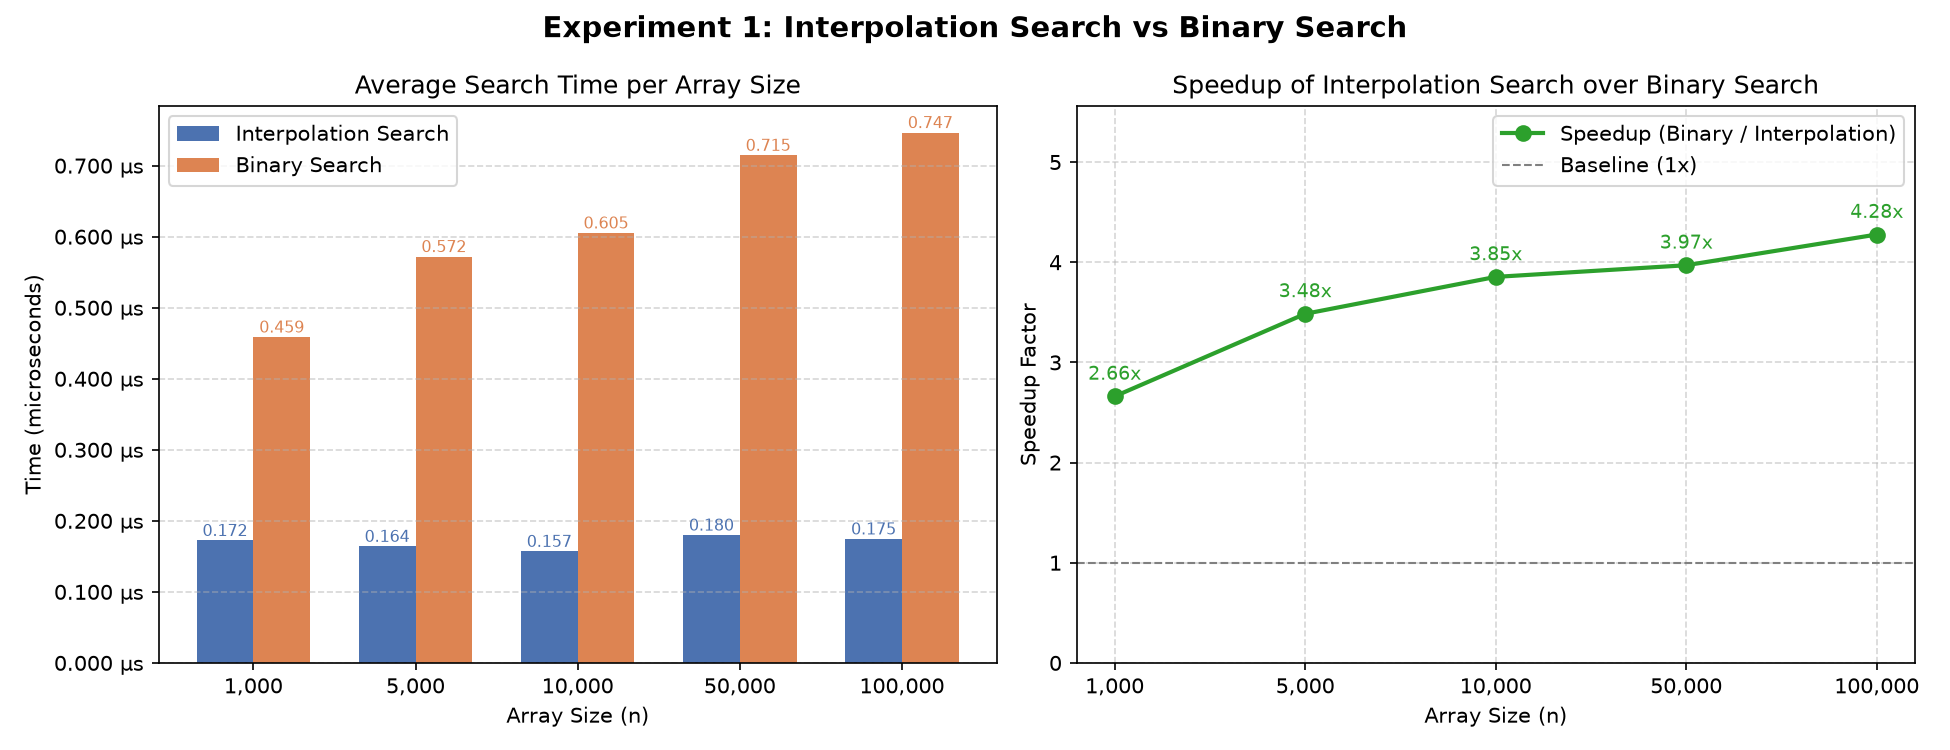
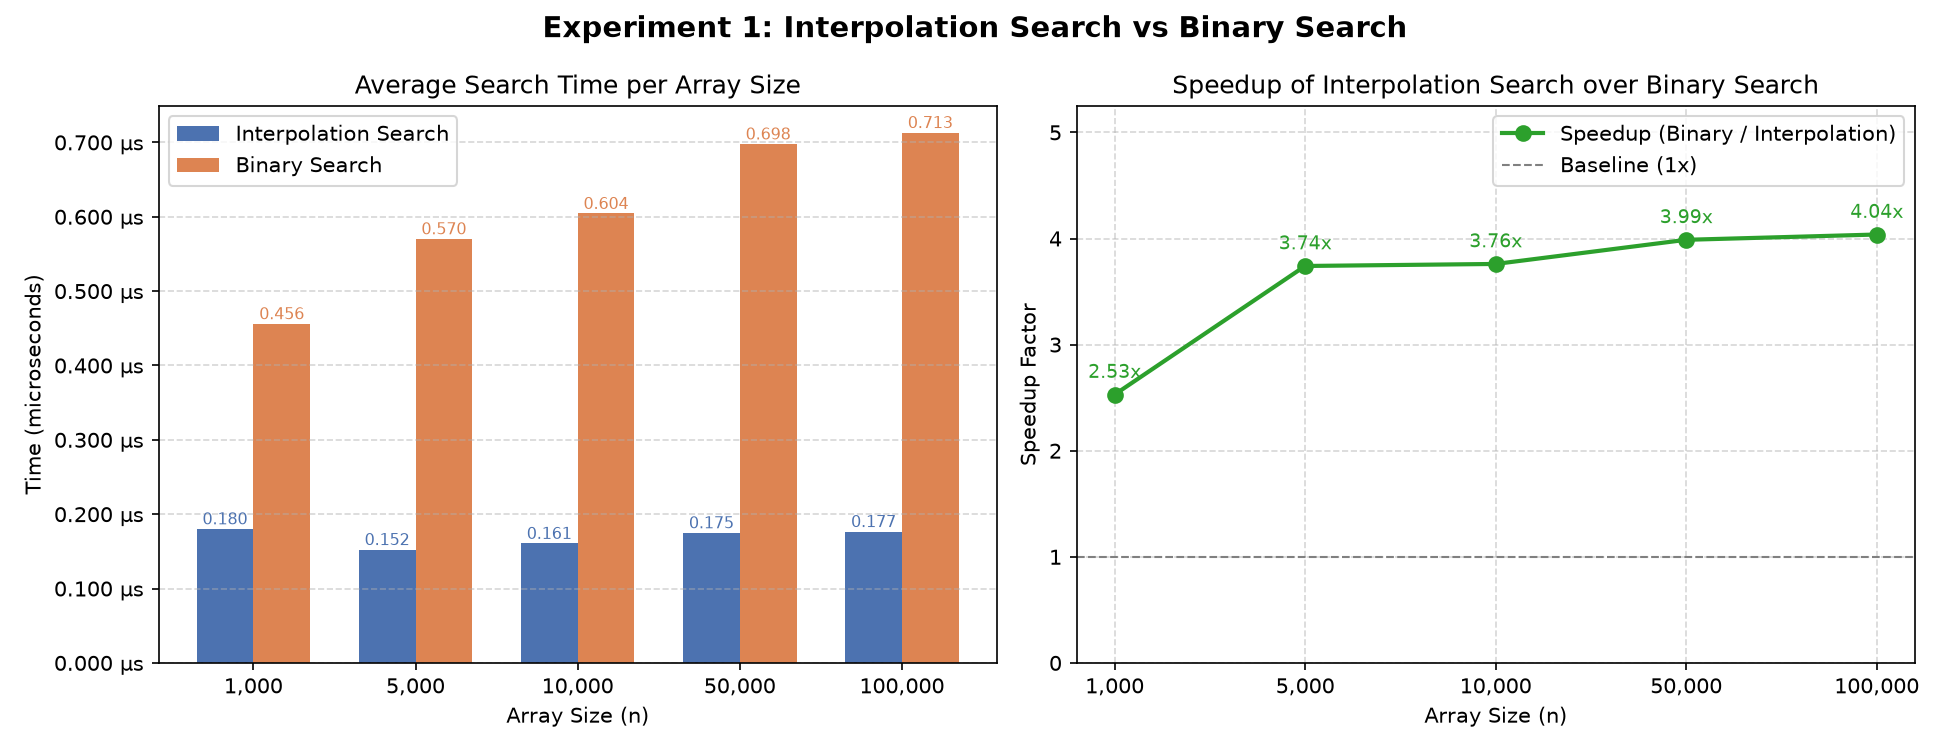
Add performance chart to README and interactive chart script.
Embed the updated benchmark chart in the README and include the interactive matplotlib chart generator for Experiment 1.

diff --git a/experiment1_interactive_chart.py b/experiment1_interactive_chart.py
@@ -1,0 +1,186 @@
+"""
+Interpolation Search vs Binary Search — Interactive Chart
+Use the controls to change inputs and see the graph update live.
+"""
+
+import random
+import time
+import matplotlib.pyplot as plt
+import matplotlib.widgets as widgets
+import numpy as np
+
+
+def interpolation_search(arr, target):
+    low, high = 0, len(arr) - 1
+    while low <= high and target >= arr[low] and target <= arr[high]:
+        if low == high:
+            return low if arr[low] == target else -1
+        if arr[high] == arr[low]:
+            return low if arr[low] == target else -1
+        pos = low + ((target - arr[low]) * (high - low)) // (arr[high] - arr[low])
+        if arr[pos] == target:
+            return pos
+        if arr[pos] < target:
+            low = pos + 1
+        else:
+            high = pos - 1
+    return -1
+
+
+def binary_search(arr, target):
+    low, high = 0, len(arr) - 1
+    while low <= high:
+        mid = (low + high) // 2
+        if arr[mid] == target:
+            return mid
+        if arr[mid] < target:
+            low = mid + 1
+        else:
+            high = mid - 1
+    return -1
+
+
+def generate_uniform_sorted_array(size):
+    start = random.randint(1, 1000)
+    step = random.randint(1, 10)
+    return [start + i * step for i in range(size)]
+
+
+def get_target(arr, position):
+    n = len(arr)
+    if position == "Start":
+        return arr[0]
+    elif position == "Middle":
+        return arr[n // 2]
+    elif position == "End":
+        return arr[-1]
+    else:  # Random
+        return arr[random.randint(0, n - 1)]
+
+
+def measure_time(fn, arr, target, runs):
+    total = 0.0
+    for _ in range(runs):
+        t = time.perf_counter()
+        fn(arr, target)
+        total += time.perf_counter() - t
+    return (total / runs) * 1e6
+
+
+def run_benchmark(max_size, runs, position):
+    sizes = [
+        int(max_size * 0.01),
+        int(max_size * 0.05),
+        int(max_size * 0.1),
+        int(max_size * 0.5),
+        int(max_size),
+    ]
+    sizes = [max(s, 10) for s in sizes]
+
+    interp_times, binary_times = [], []
+    for size in sizes:
+        arr = generate_uniform_sorted_array(size)
+        target = get_target(arr, position)
+        interp_times.append(measure_time(interpolation_search, arr, target, runs))
+        binary_times.append(measure_time(binary_search, arr, target, runs))
+
+    return sizes, interp_times, binary_times
+
+
+# ── Initial state ────────────────────────────────────────────────────────
+random.seed(42)
+current_position = "Middle"
+init_max_size = 100000
+init_runs = 100
+
+sizes, interp_times, binary_times = run_benchmark(init_max_size, init_runs, current_position)
+labels = [f"{s:,}" for s in sizes]
+
+# ── Layout ───────────────────────────────────────────────────────────────
+fig, (ax1, ax2) = plt.subplots(1, 2, figsize=(14, 6))
+plt.subplots_adjust(left=0.08, right=0.98, bottom=0.32, top=0.92)
+
+fig.suptitle("Interpolation Search vs Binary Search — Interactive", fontsize=13, fontweight="bold")
+
+x = np.arange(len(sizes))
+width = 0.35
+
+bars_i = ax1.bar(x - width / 2, interp_times, width, label="Interpolation", color="#4C72B0")
+bars_b = ax1.bar(x + width / 2, binary_times, width, label="Binary Search", color="#DD8452")
+ax1.set_title("Average Search Time")
+ax1.set_xlabel("Array Size (n)")
+ax1.set_ylabel("Time (µs)")
+ax1.set_xticks(x)
+ax1.set_xticklabels(labels)
+ax1.legend()
+ax1.grid(axis="y", linestyle="--", alpha=0.5)
+
+speedups = [b / i if i > 0 else 0 for i, b in zip(interp_times, binary_times)]
+(line_speedup,) = ax2.plot(labels, speedups, marker="o", color="#2ca02c", linewidth=2, markersize=7)
+ax2.axhline(y=1, color="gray", linestyle="--", linewidth=1)
+ax2.set_title("Speedup (Binary / Interpolation)")
+ax2.set_xlabel("Array Size (n)")
+ax2.set_ylabel("Speedup Factor")
+ax2.set_ylim(0, max(speedups) * 1.4 if speedups else 5)
+ax2.grid(linestyle="--", alpha=0.5)
+speedup_labels = [ax2.text(i, speedups[i], f"{speedups[i]:.2f}x", ha="center", va="bottom", fontsize=8) for i in range(len(speedups))]
+
+status_text = fig.text(0.5, 0.96, "", ha="center", fontsize=9, color="gray")
+
+
+def redraw(max_size, runs, position):
+    global speedup_labels
+    status_text.set_text("Running benchmark...")
+    fig.canvas.draw()
+
+    sizes, interp_times, binary_times = run_benchmark(int(max_size), int(runs), position)
+    labels = [f"{s:,}" for s in sizes]
+    speedups = [b / i if i > 0 else 0 for i, b in zip(interp_times, binary_times)]
+
+    # Update bar chart
+    for bar, h in zip(bars_i, interp_times):
+        bar.set_height(h)
+    for bar, h in zip(bars_b, binary_times):
+        bar.set_height(h)
+    ax1.set_xticklabels(labels)
+    ax1.relim()
+    ax1.autoscale_view()
+
+    # Update speedup line
+    line_speedup.set_ydata(speedups)
+    ax2.set_xticklabels(labels)
+    ax2.set_ylim(0, max(speedups) * 1.4 if speedups else 5)
+    for lbl in speedup_labels:
+        lbl.remove()
+    speedup_labels = [ax2.text(i, speedups[i], f"{speedups[i]:.2f}x", ha="center", va="bottom", fontsize=8) for i in range(len(speedups))]
+
+    status_text.set_text(f"Target: {position} | Max size: {int(max_size):,} | Runs: {int(runs)}")
+    fig.canvas.draw_idle()
+
+
+# ── Widgets ──────────────────────────────────────────────────────────────
+ax_size   = plt.axes([0.10, 0.18, 0.55, 0.03])
+ax_runs   = plt.axes([0.10, 0.12, 0.55, 0.03])
+ax_radio  = plt.axes([0.72, 0.05, 0.22, 0.18])
+ax_button = plt.axes([0.10, 0.05, 0.15, 0.06])
+
+slider_size  = widgets.Slider(ax_size,  "Max Array Size", 1000, 500000, valinit=init_max_size, valstep=1000, color="#4C72B0")
+slider_runs  = widgets.Slider(ax_runs,  "Runs per Size",  10,   500,    valinit=init_runs,     valstep=10,   color="#DD8452")
+radio        = widgets.RadioButtons(ax_radio, ["Start", "Middle", "End", "Random"], active=1)
+btn_update   = widgets.Button(ax_button, "Update Chart", color="#e0f0e0", hovercolor="#b0e0b0")
+
+
+def on_radio(label):
+    global current_position
+    current_position = label
+
+
+def on_update(event):
+    redraw(slider_size.val, slider_runs.val, current_position)
+
+
+radio.on_clicked(on_radio)
+btn_update.on_clicked(on_update)
+
+status_text.set_text(f"Target: {current_position} | Max size: {init_max_size:,} | Runs: {init_runs}")
+plt.show()

diff --git a/README.md b/README.md
@@ -72,12 +72,29 @@ Analysis:
 - Speedup increases with array size, confirming the O(log log n) vs O(log n) advantage.
 - Both algorithms pass correctness verification across all test cases before benchmarking.
 
+### Performance Chart
+
+![Experiment 1: Interpolation Search vs Binary Search](experiment1_chart.png)
+
+Generate the static chart:
+
+```bash
+python3 experiment1_chart.py
+```
+
+For an interactive chart with adjustable array size, runs, and target position:
+
+```bash
+python3 experiment1_interactive_chart.py
+```
+
 ---
 
 ## Requirements
 
 - Python 3.x
-- No external packages required
+- Standard library only for `experiment1_interpolation_search.py`
+- `matplotlib` and `numpy` for chart scripts (`experiment1_chart.py`, `experiment1_interactive_chart.py`)
 
 ---
 